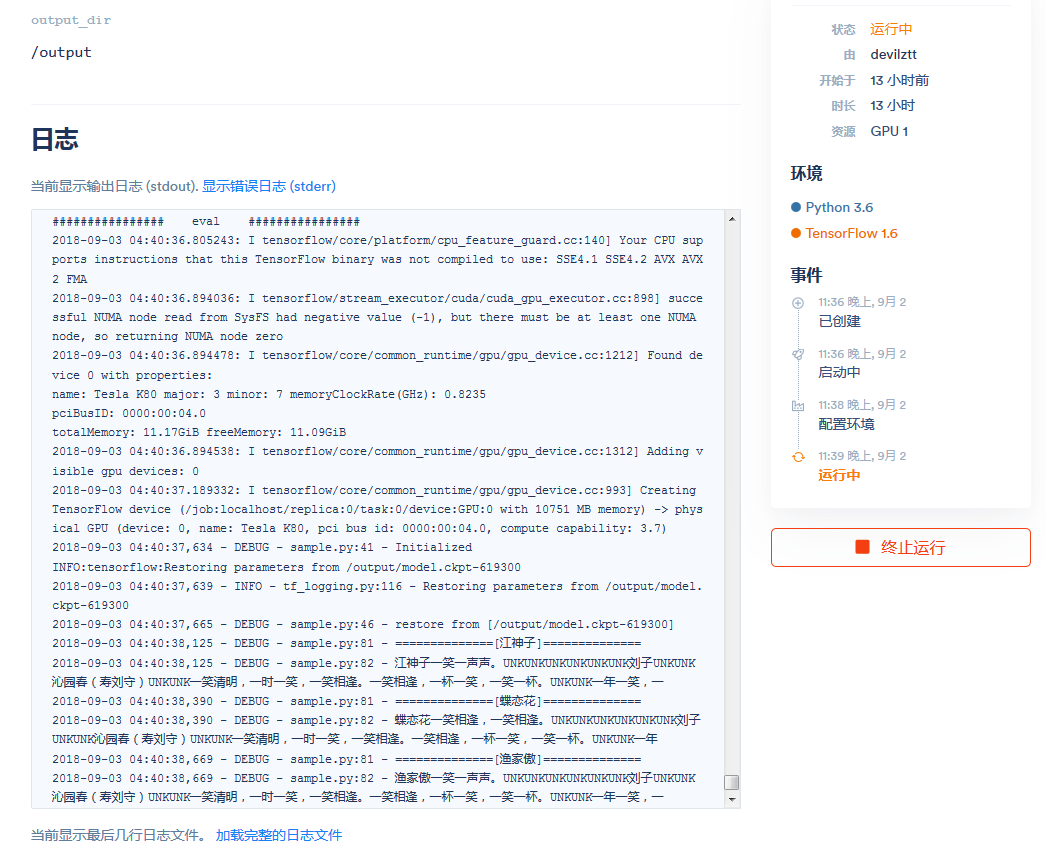
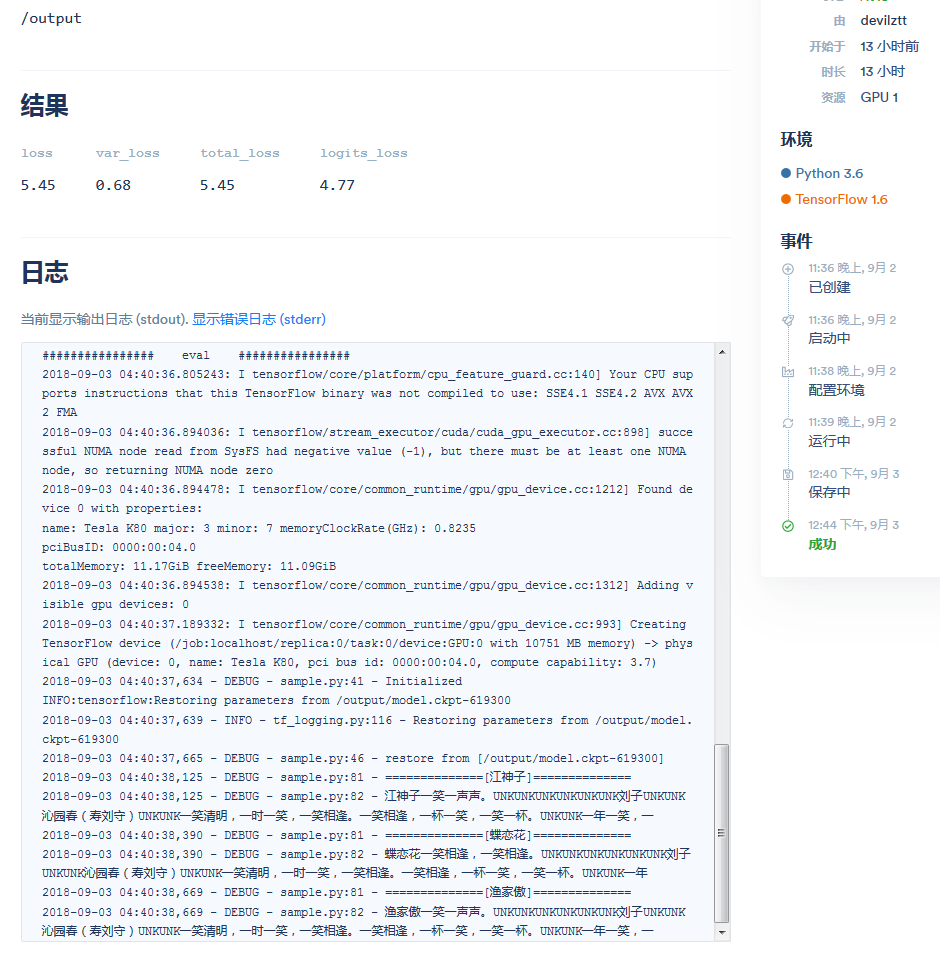
finally

diff --git a/readme.md b/readme.md
@@ -6,7 +6,7 @@
 ![](https://i.imgur.com/u040XTQ.png)
 
 下图所示为RNN_LSTM在运行完30个epoch共计13小时后的输出log
-![](https://i.imgur.com/eX8L6B3.png)
+![](https://i.imgur.com/BmpXk5i.png)
 
 # 总结
 ---
